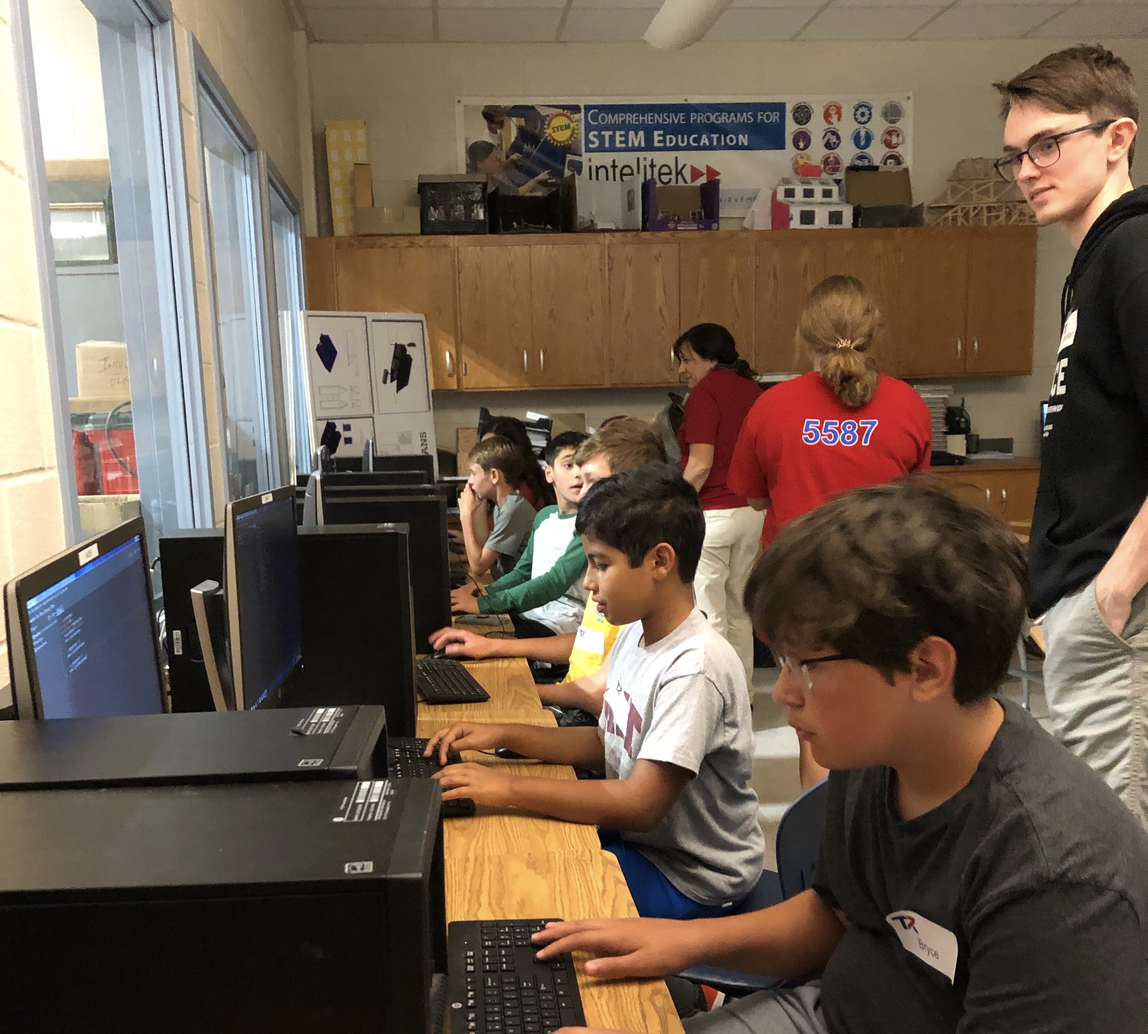
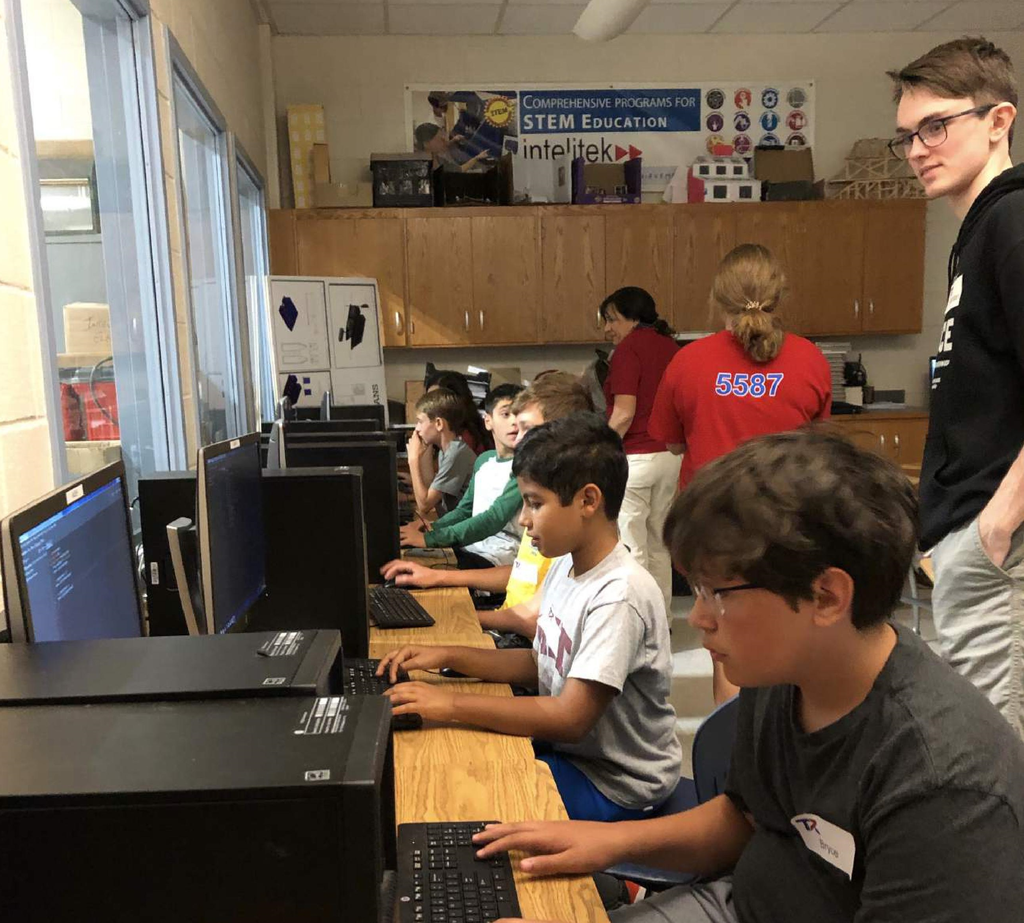
ref(img): reduce lag through img compression

diff --git a/_pages/summercamp.html b/_pages/summercamp.html
@@ -72,7 +72,7 @@ stylesheets:
         </div>
 
         <div class="image order-1">
-            <img class="featurette-image" src="/assets/images/Camps/roboticseng.png">
+            <img class="featurette-image" src="/assets/images/Camps/roboticseng.jpg">
         </div>
     </div>
 
@@ -91,7 +91,7 @@ stylesheets:
         </div>
 
         <div class="image order-1">
-            <img class="featurette-image" src="/assets/images/Camps/explosions.png">
+            <img class="featurette-image" src="/assets/images/Camps/explosions.jpg">
         </div>
     </div>
 
